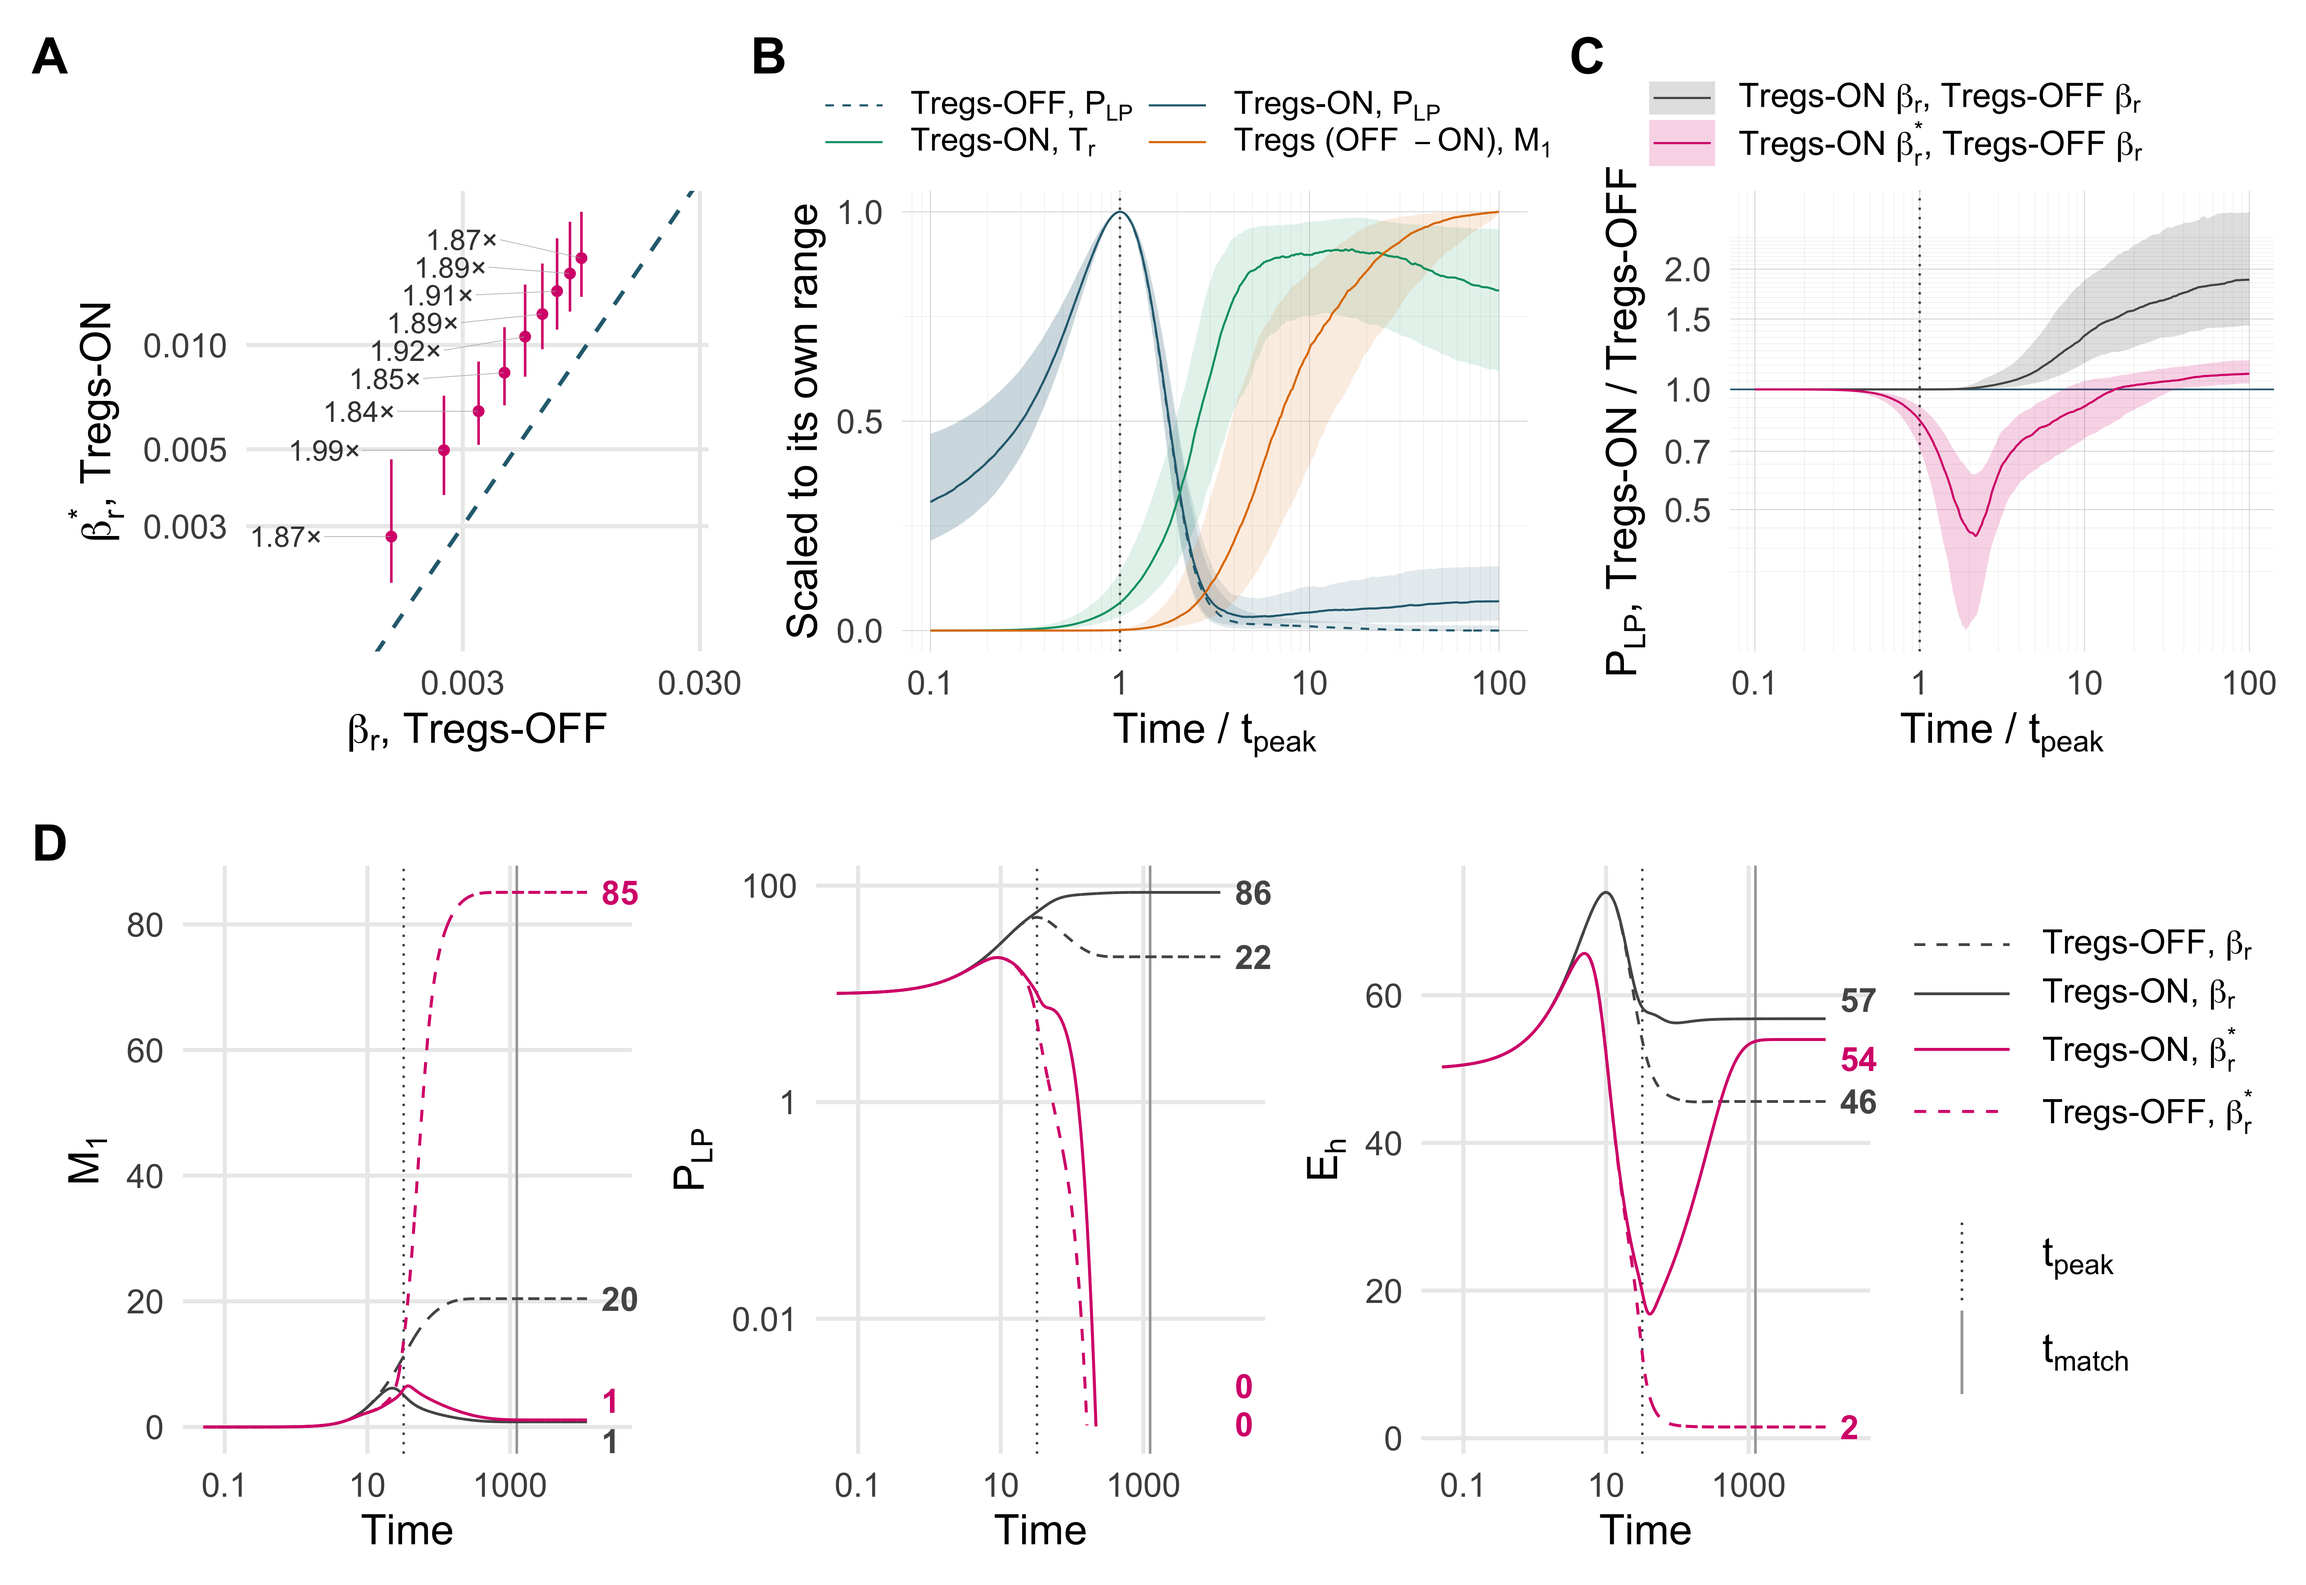
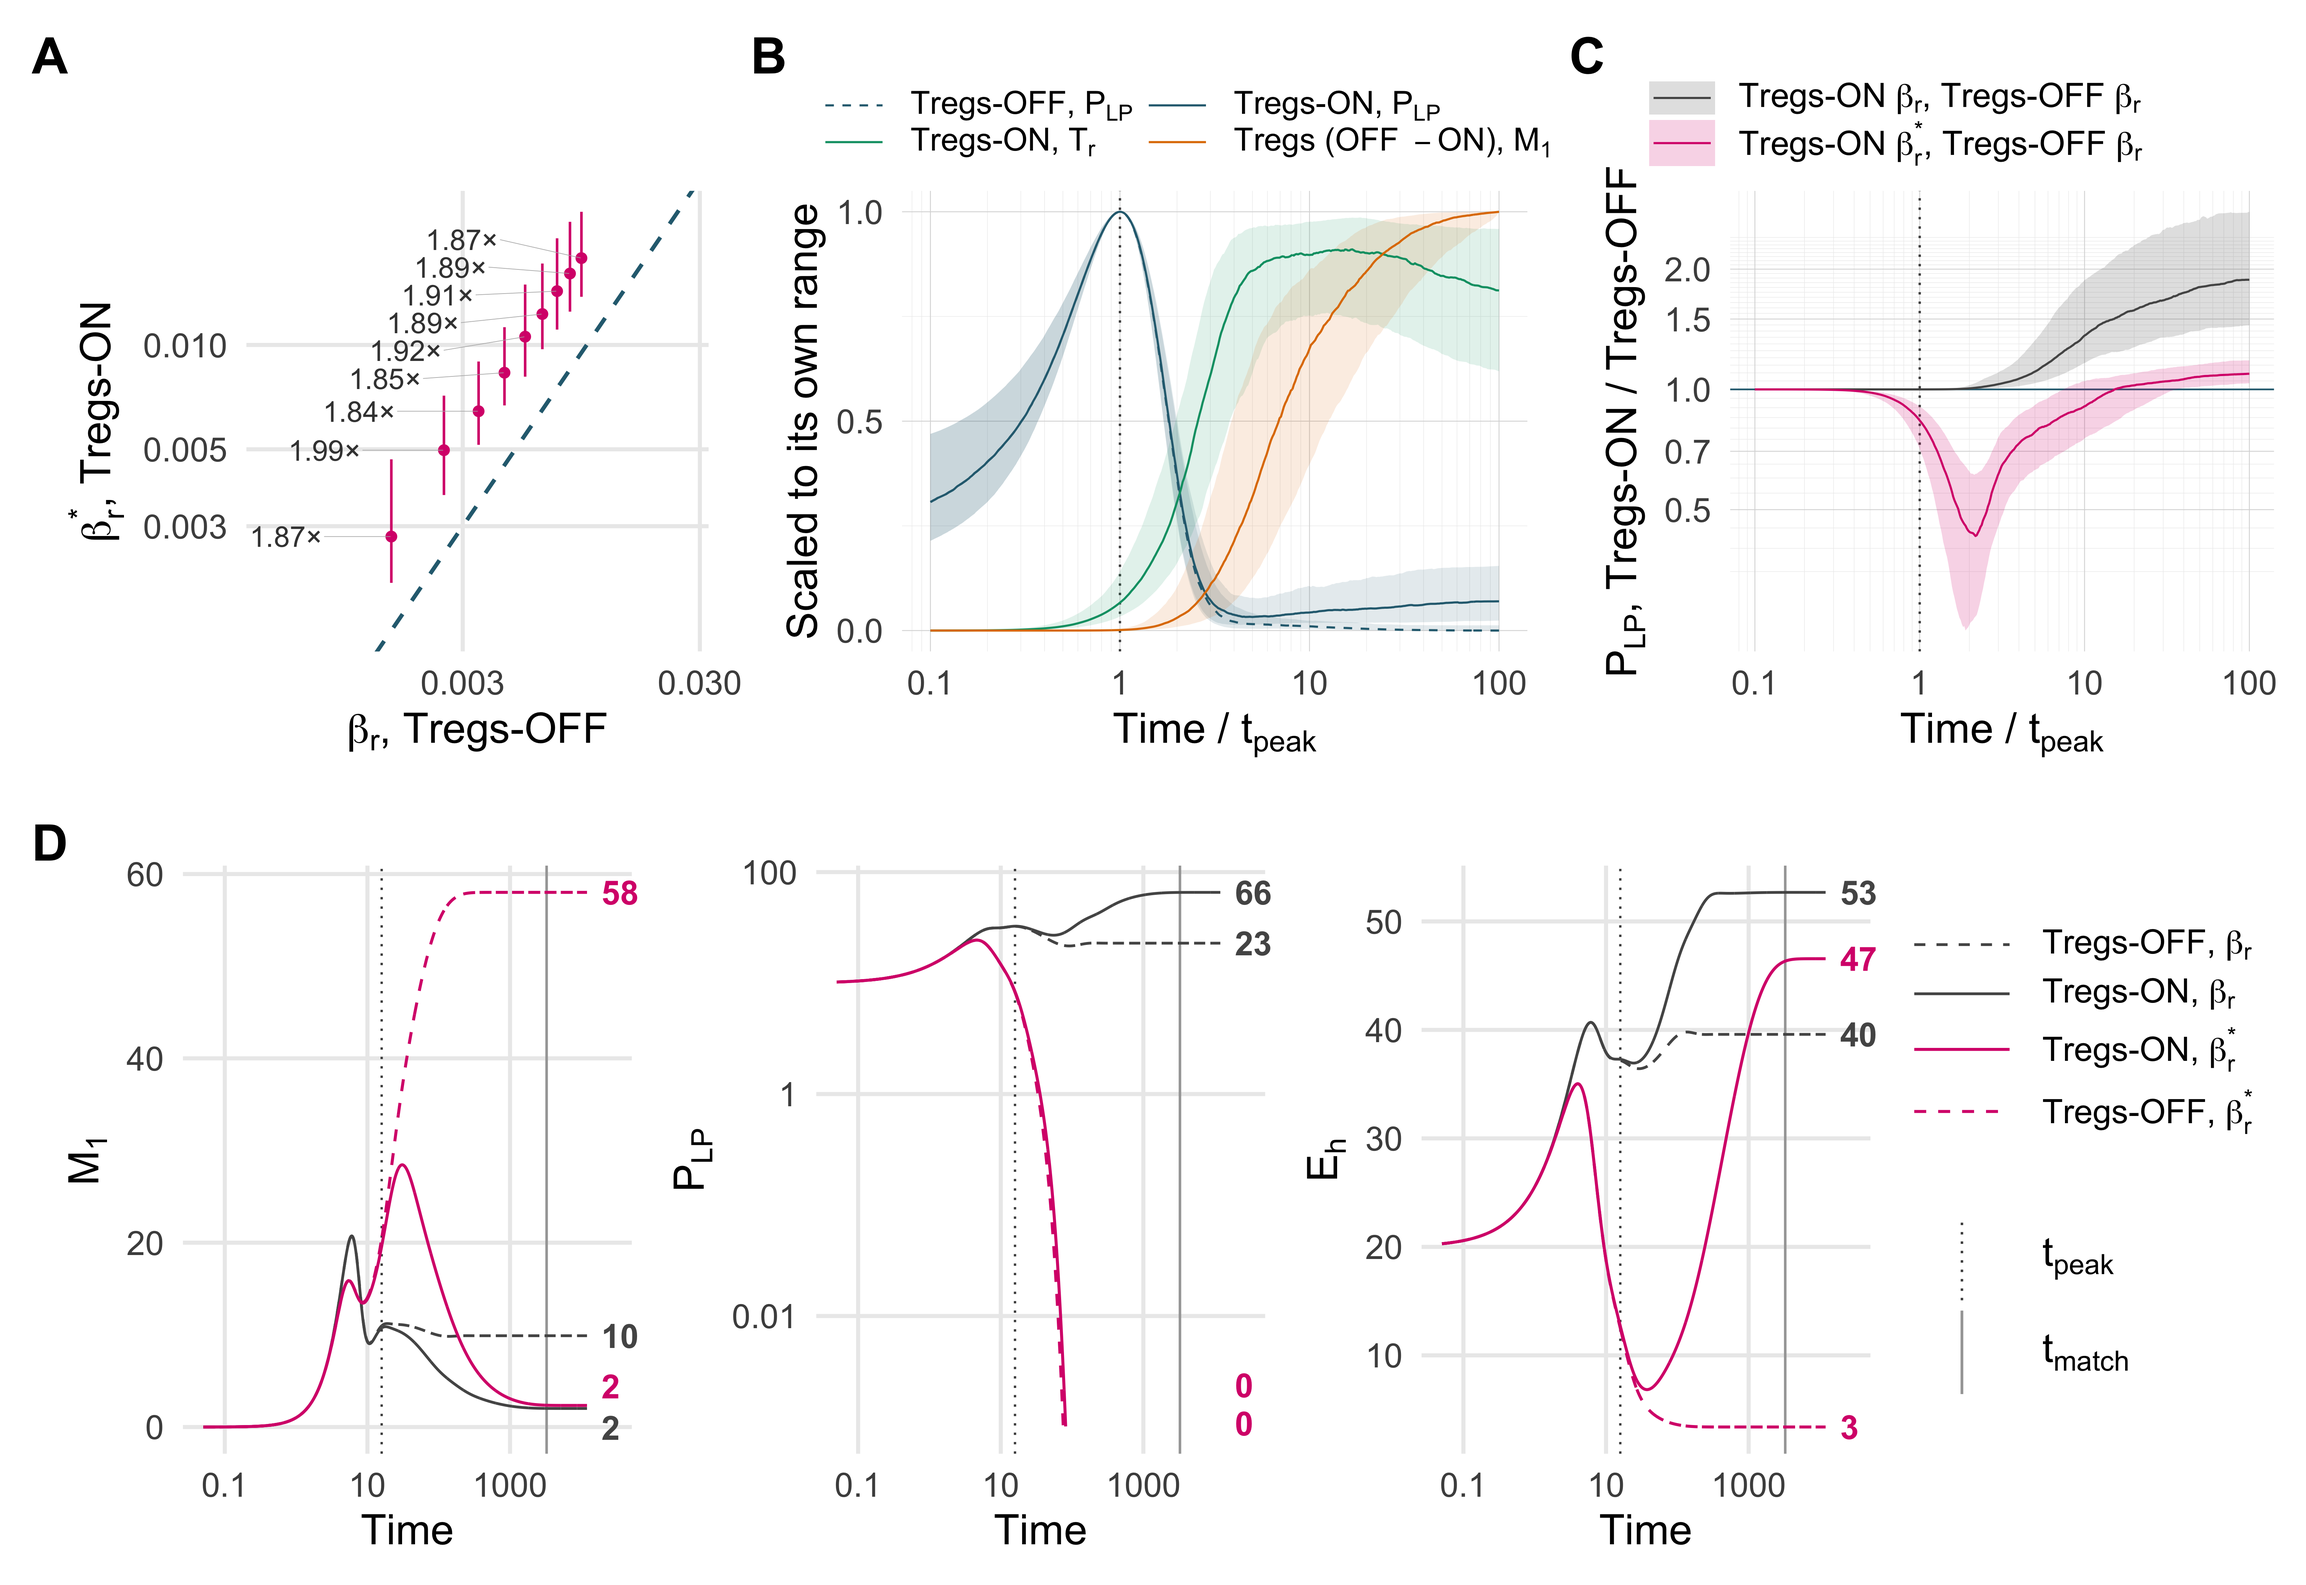
Fig. 4D: example unit 38614, one of the 15 pairs in which only Tregs-ON at beta_r* clears
The previous example (unit 4108, beta_r*/beta_r = 15.4) has an inverted Tregs-ON
threshold and is excluded by the gate, so it was not one of the 15 pairs whose
ratio range (1.3 to 9.2) the text reports. Unit 38614 sits at the medians of that
set (ratio 3.72, aggression without the brake 1.60x the damage). Figure, script
default, numbers script and the Methods paragraph updated.

diff --git a/docs/figure_methods.tex b/docs/figure_methods.tex
@@ -1178,18 +1178,20 @@ is 0.982 at $\tau = 0.5$, 0.836 at $\tau = 1$, reaches its minimum 0.430 at $\ta
 $\tau = 1$ and 1.108, 1.364, 1.804 and 1.881 at $\tau = 5$, 10, 50 and 100.
 % from: pipeline/checks/fig06_methods_numbers.R, section 5
 
-\paragraph{Panel D (the demonstration unit).} One unit (index 4108 of the sample:
-\texttt{tau\_id} 10812, $K_g = 35$, $r_P = 0.08$, $E_h(0) = 50$, $\beta_r = 0.0065$,
-$\beta_r^{*} = 0.0999$, i.e.\ $15.4\,\beta_r$; harm-labeled at its own $\beta_r$), kept as a demonstration case: its
-Tregs-ON line runs decreasing, so criterion~(4) excludes it from the 8{,}789 pairs, and it is
-shown for the largest cost of the aggression without the brake. Its four arms
+\paragraph{Panel D (the demonstration unit).} One unit (index 38614 of the sample:
+\texttt{tau\_id} 31555, $K_g = 45$, $r_P = 0.08$, $E_h(0) = 20$, $\beta_r = 0.0075$,
+$\beta_r^{*} = 0.0279$, i.e.\ $3.72\,\beta_r$; harm-labeled at its own $\beta_r$), one of the 15 pairs
+of the 8{,}789 in which only ON($\beta_r^{*}$) eliminates, chosen for lying at the medians of that
+set ($\beta_r^{*}/\beta_r$ 3.72 against a median of 3.56; cost of the aggression without the brake
+1.60 against a median of 1.62). Its four arms
 are re-integrated on a 3{,}000-point log-spaced grid and $M_1$, $P_{LP}$ and $E_h$ are drawn
-against time; the first peak of OFF($\beta_r$) at $t = 32.2$ and $t_{\mathrm{match}} = 1{,}244$ are marked. Final
-values: $P_{LP}$ 22.0 (OFF, $\beta_r$), 86.4 (ON, $\beta_r$), 0 (ON and OFF at $\beta_r^{*}$,
-eliminated at $t = 590$ and 327); $E_h$ 45.6, 56.8, 54.0 and 1.5; $M_1$ 20.4, 0.8, 1.1 and 85.1.
-The cumulative damage of OFF($\beta_r^{*}$) over $[0, t_{\mathrm{match}}]$ is 1.81 times that of OFF($\beta_r$); on
-% from: pipeline/checks/fig06_methods_numbers.R, section 8
-the 3{,}000-point grid of the figure the elimination times are 581 and 323.
+against time; the first peak of OFF($\beta_r$) at $t = 15.8$ and $t_{\mathrm{match}} = 3{,}257$ are marked. Final
+values: $P_{LP}$ 22.9 (OFF, $\beta_r$), 65.7 (ON, $\beta_r$), 0 (ON and OFF at $\beta_r^{*}$,
+eliminated at $t = 162$ and 151 on the grid of the figure; 165 for ON($\beta_r^{*}$) on the
+experiment's 400-point grid); $E_h$ 39.6, 52.7, 46.6 and 3.4; $M_1$ 9.9, 2.0, 2.3 and 58.0.
+The cumulative damage of OFF($\beta_r^{*}$) over $[0, t_{\mathrm{match}}]$ is 1.60 times that of OFF($\beta_r$).
+% unit 38614 since 2026-11-18 (lib/fig_demo_case.R output); the previous unit, 4108, had an
+% inverted Tregs-ON threshold and so was outside the 15 pairs the text describes.
 
 No bootstrap, test or correlation is used in Fig.~4; all summaries are medians and quartiles
 over pairs. The pairs span a region of parameter space whose distribution is not known, so
